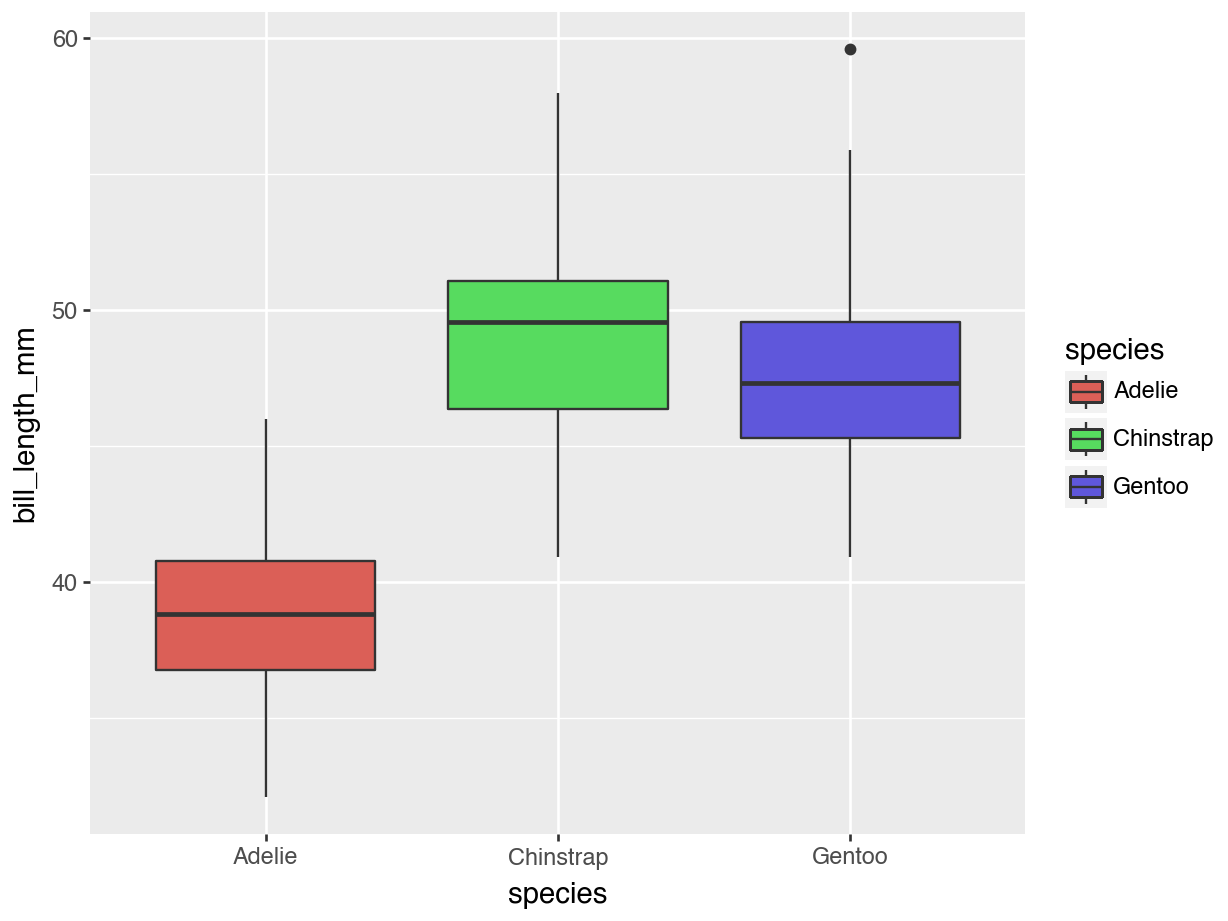
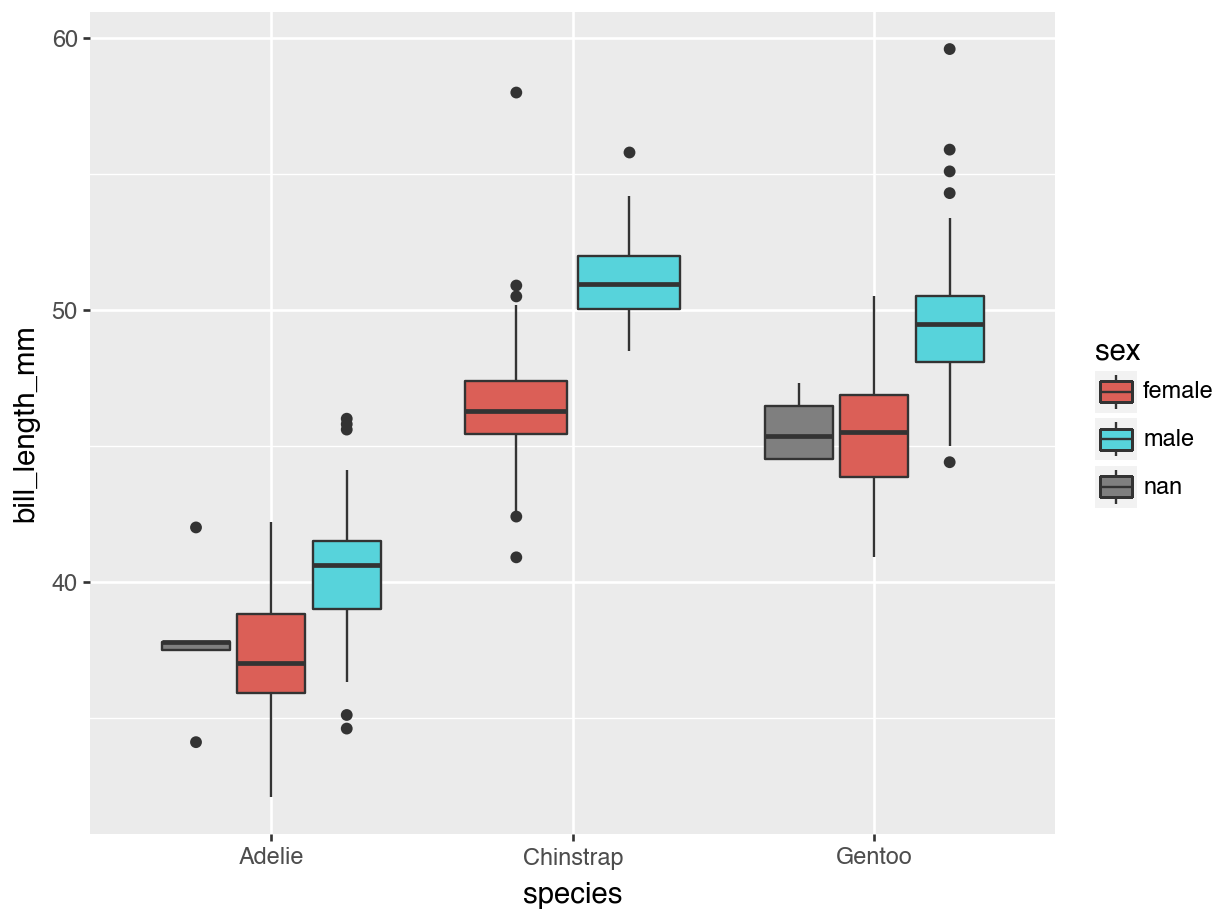
small changes to day 2 slides for text running off page

diff --git a/docs/slides/02-conditional-distributions.html b/docs/slides/02-conditional-distributions.html
@@ -398,7 +398,7 @@
 </section>
 <section>
 <section id="the-story-so-far" class="title-slide slide level1 center">
-<h1>The story so far</h1>
+<h1>The story so far…</h1>
 
 </section>
 <section id="getting-and-prepping-data" class="slide level2">
@@ -413,6 +413,7 @@
 </section>
 <section id="thinking-about-variable-types" class="slide level2">
 <h2>Thinking About Variable Types</h2>
+<div class="small">
 <div class="cell">
 <div class="cell-output-display">
 <table class="caption-top">
@@ -551,6 +552,7 @@
 </table>
 </div>
 </div>
+</div>
 </section>
 <section id="accessing-rows-and-columns" class="slide level2">
 <h2>Accessing Rows and Columns</h2>
@@ -592,6 +594,7 @@ Name: name, dtype: object</code></pre>
 </section>
 <section id="quick-summary-of-quantitative-variables" class="slide level2">
 <h2>Quick Summary of Quantitative Variables</h2>
+<div class="small">
 <div class="cell">
 <div class="sourceCode cell-code" id="cb7"><pre class="sourceCode python code-with-copy"><code class="sourceCode python"><span id="cb7-1"><a aria-hidden="true" tabindex="-1"></a>df.describe()</span></code><button title="Copy to Clipboard" class="code-copy-button"><i class="bi"></i></button></pre></div>
 <div class="cell-output cell-output-stdout">
@@ -604,6 +607,7 @@ min       0.166700     0.000000     0.000000     0.000000    1.000000
 50%      28.000000     0.000000     0.000000    14.454200  155.000000
 75%      39.000000     1.000000     0.000000    31.275000  256.000000
 max      80.000000     8.000000     9.000000   512.329200  328.000000</code></pre>
+</div>
 </div>
 </div>
 </section>
@@ -714,7 +718,7 @@ Name: proportion, dtype: float64</code></pre>
 <div class="sourceCode cell-code" id="cb14"><pre class="sourceCode python code-with-copy"><code class="sourceCode python"><span id="cb14-1"><a aria-hidden="true" tabindex="-1"></a>(</span>
 <span id="cb14-2"><a aria-hidden="true" tabindex="-1"></a>  ggplot(data <span class="op">=</span> penguins, mapping <span class="op">=</span> aes(x <span class="op">=</span> <span class="st">"species"</span>, </span>
 <span id="cb14-3"><a aria-hidden="true" tabindex="-1"></a>                                        y <span class="op">=</span> <span class="st">"bill_length_mm"</span>, </span>
-<span id="cb14-4"><a aria-hidden="true" tabindex="-1"></a>                                        fill <span class="op">=</span> <span class="st">"species"</span>)</span>
+<span id="cb14-4"><a aria-hidden="true" tabindex="-1"></a>                                        fill <span class="op">=</span> <span class="st">"sex"</span>)</span>
 <span id="cb14-5"><a aria-hidden="true" tabindex="-1"></a>         ) <span class="op">+</span> </span>
 <span id="cb14-6"><a aria-hidden="true" tabindex="-1"></a>  geom_boxplot()</span>
 <span id="cb14-7"><a aria-hidden="true" tabindex="-1"></a>)</span></code><button title="Copy to Clipboard" class="code-copy-button"><i class="bi"></i></button></pre></div>
@@ -789,11 +793,10 @@ Name: proportion, dtype: float64</code></pre>
 <div class="sourceCode cell-code" id="cb17"><pre class="sourceCode python code-with-copy"><code class="sourceCode python"><span id="cb17-1"><a aria-hidden="true" tabindex="-1"></a>pclass_dist <span class="op">=</span> (</span>
 <span id="cb17-2"><a aria-hidden="true" tabindex="-1"></a>  df[<span class="st">'pclass'</span>]</span>
 <span id="cb17-3"><a aria-hidden="true" tabindex="-1"></a>  .value_counts(normalize <span class="op">=</span> <span class="va">True</span>)</span>
-<span id="cb17-4"><a aria-hidden="true" tabindex="-1"></a>  .to_frame()</span>
-<span id="cb17-5"><a aria-hidden="true" tabindex="-1"></a>  .reset_index()</span>
-<span id="cb17-6"><a aria-hidden="true" tabindex="-1"></a>  )</span>
-<span id="cb17-7"><a aria-hidden="true" tabindex="-1"></a>  </span>
-<span id="cb17-8"><a aria-hidden="true" tabindex="-1"></a>pclass_dist</span></code><button title="Copy to Clipboard" class="code-copy-button"><i class="bi"></i></button></pre></div>
+<span id="cb17-4"><a aria-hidden="true" tabindex="-1"></a>  .reset_index()</span>
+<span id="cb17-5"><a aria-hidden="true" tabindex="-1"></a>  )</span>
+<span id="cb17-6"><a aria-hidden="true" tabindex="-1"></a>  </span>
+<span id="cb17-7"><a aria-hidden="true" tabindex="-1"></a>pclass_dist</span></code><button title="Copy to Clipboard" class="code-copy-button"><i class="bi"></i></button></pre></div>
 <div class="cell-output cell-output-stdout">
 <pre><code>  pclass  proportion
 0      3    0.541635
@@ -832,6 +835,7 @@ Name: proportion, dtype: float64</code></pre>
 
 </div><div class="column" style="width:40%;">
 <div class="fragment">
+<div class="small">
 <div class="callout callout-tip callout-titled callout-style-default">
 <div class="callout-body">
 <div class="callout-title">
@@ -842,6 +846,7 @@ Name: proportion, dtype: float64</code></pre>
 </div>
 <div class="callout-content">
 <p>Technically, you could still use <code>geom_bar()</code>, but you would need to specify that you didn’t want it to use <code>stat = "count"</code> (the default). You’ve already calculated the proportions, so you would use <code>geom_bar(stat = "identity")</code>.</p>
+</div>
 </div>
 </div>
 </div>
@@ -1066,9 +1071,7 @@ pclass
 </div>
 </div></div>
 <p><br></p>
-<ul>
-<li>This is sometimes called a <em>cross-tab</em> or <em>cross-tabulation</em>.</li>
-</ul>
+<p>This is sometimes called a <em>cross-tab</em> or <em>cross-tabulation</em>.</p>
 <div class="callout callout-tip callout-titled callout-style-default">
 <div class="callout-body">
 <div class="callout-title">
@@ -1100,9 +1103,7 @@ pclass
 </div>
 </div>
 <p><br></p>
-<ul>
-<li>All of these values should sum to 1, aka, 100%!</li>
-</ul>
+<p>All of these values should sum to 1, aka, 100%!</p>
 </section>
 <section id="switching-variable-order" class="slide level2">
 <h2>Switching Variable Order</h2>
